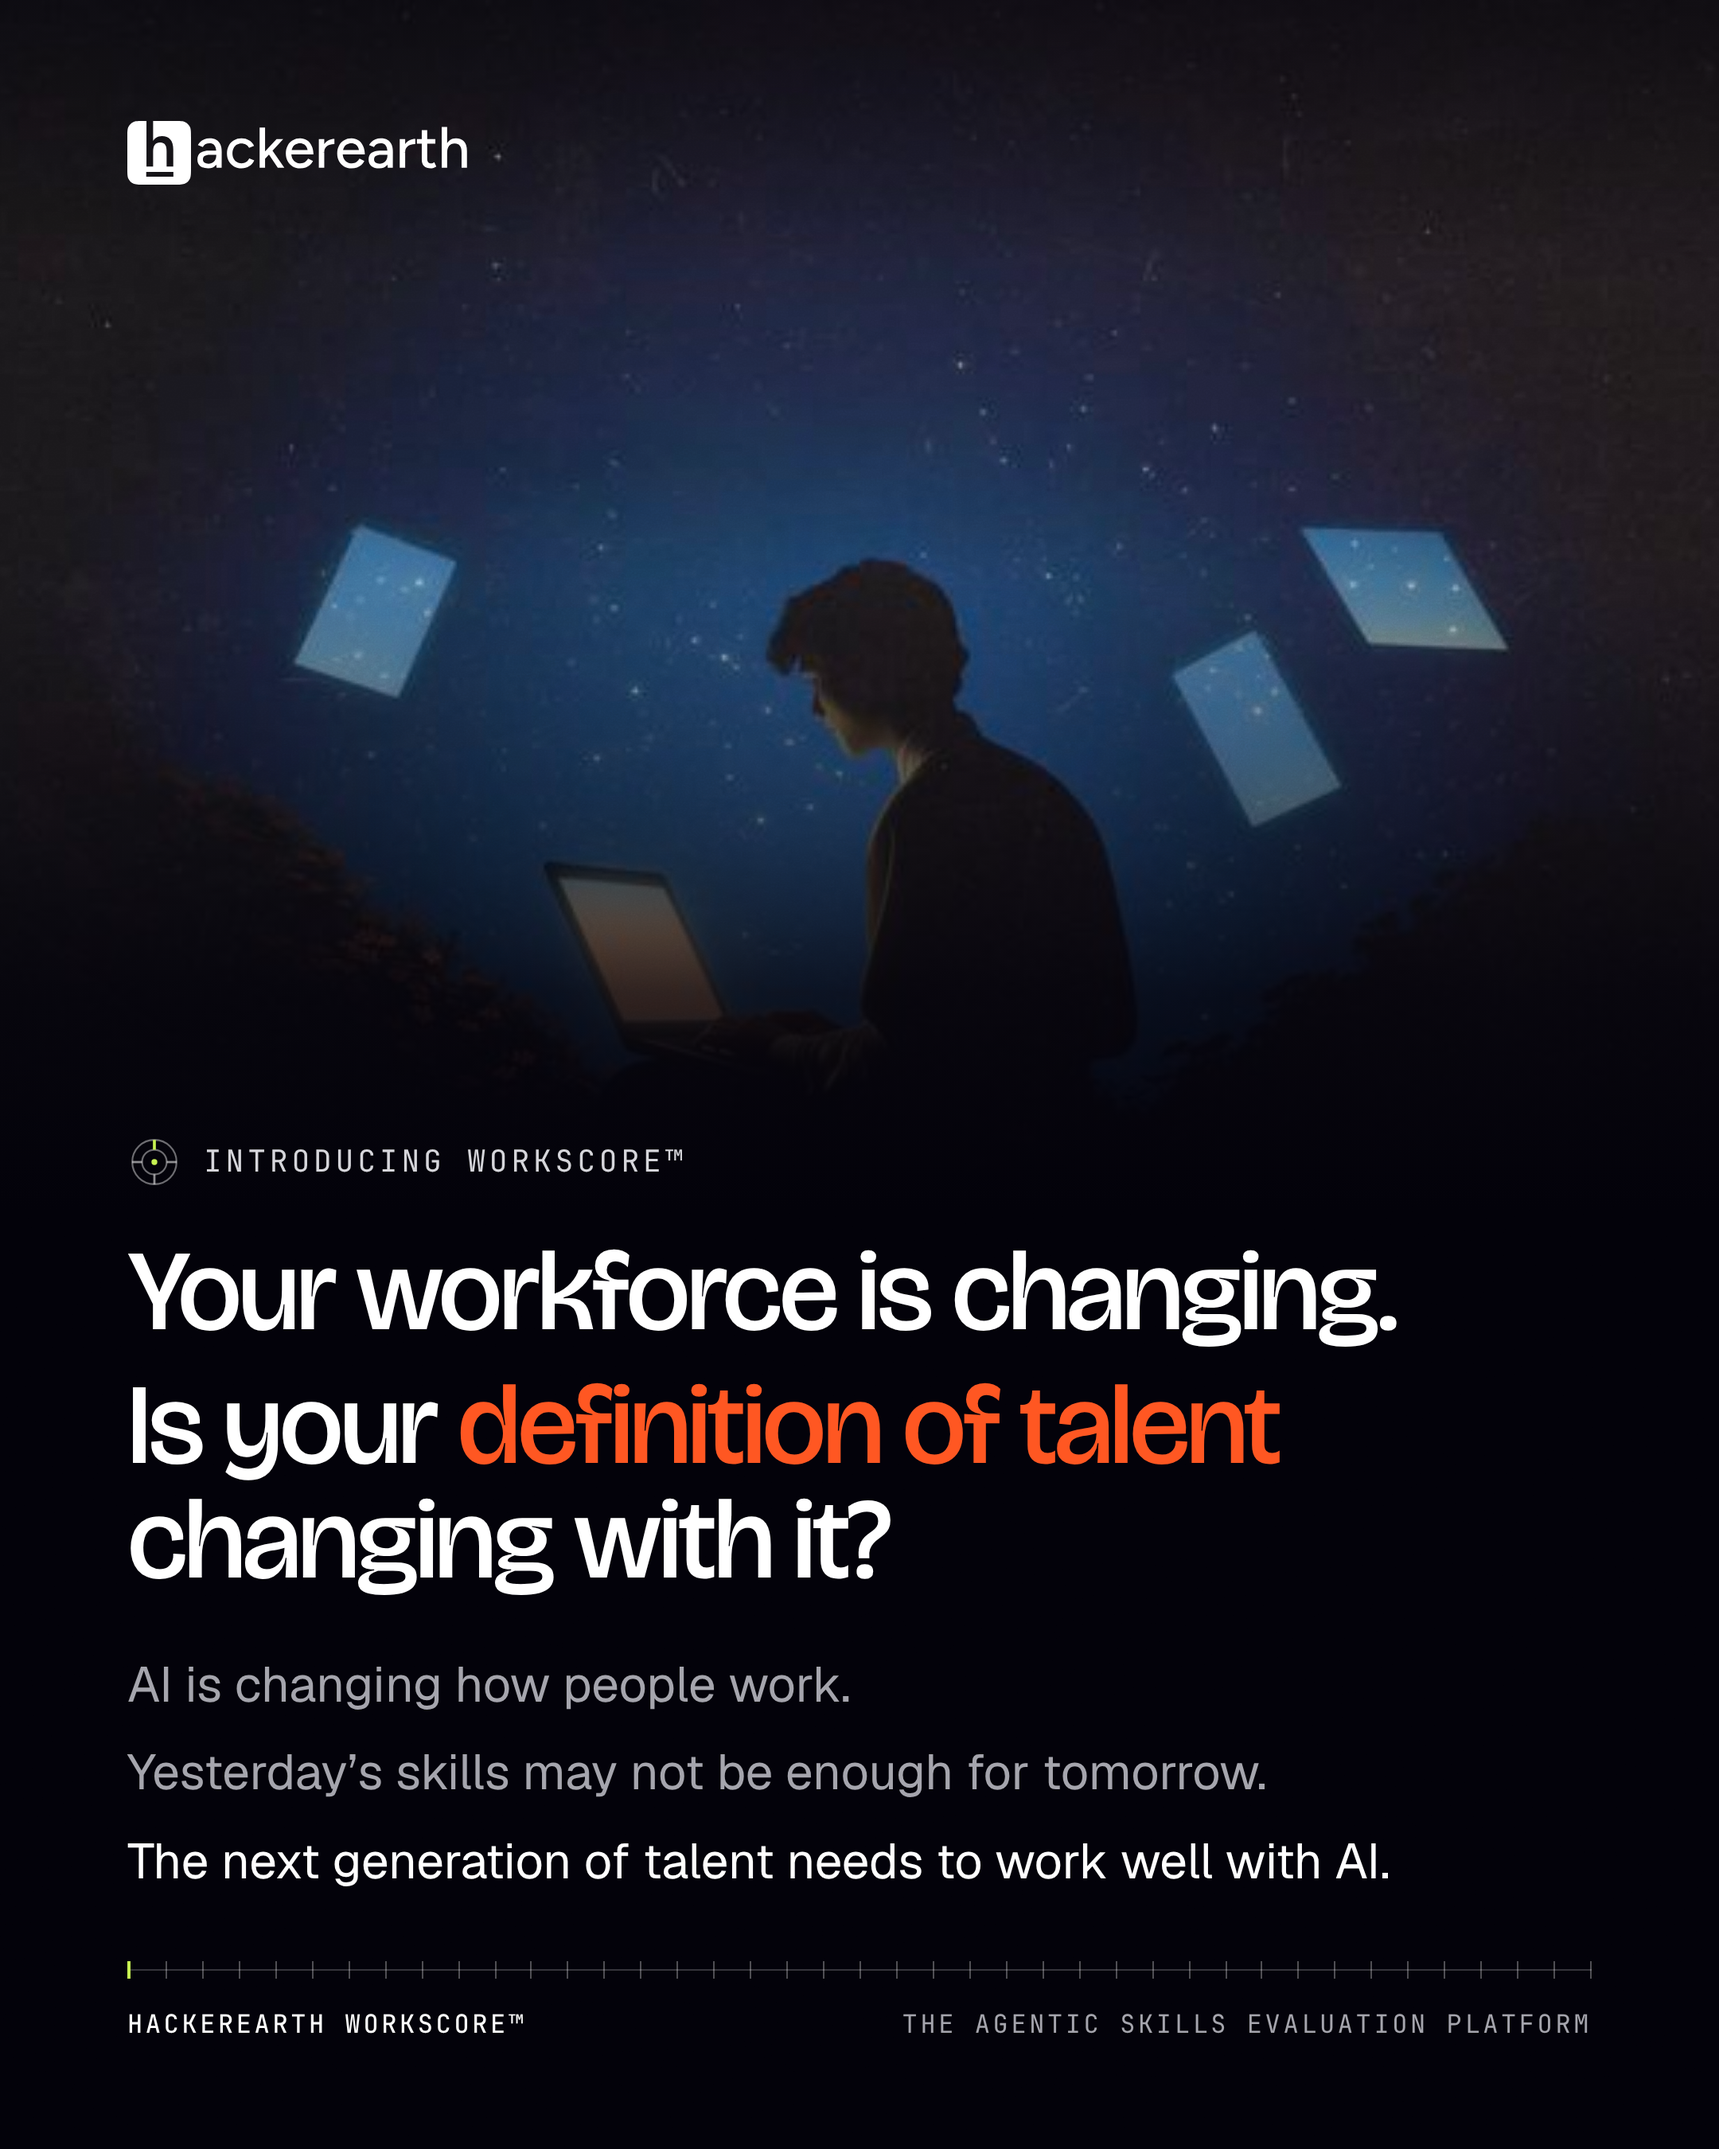
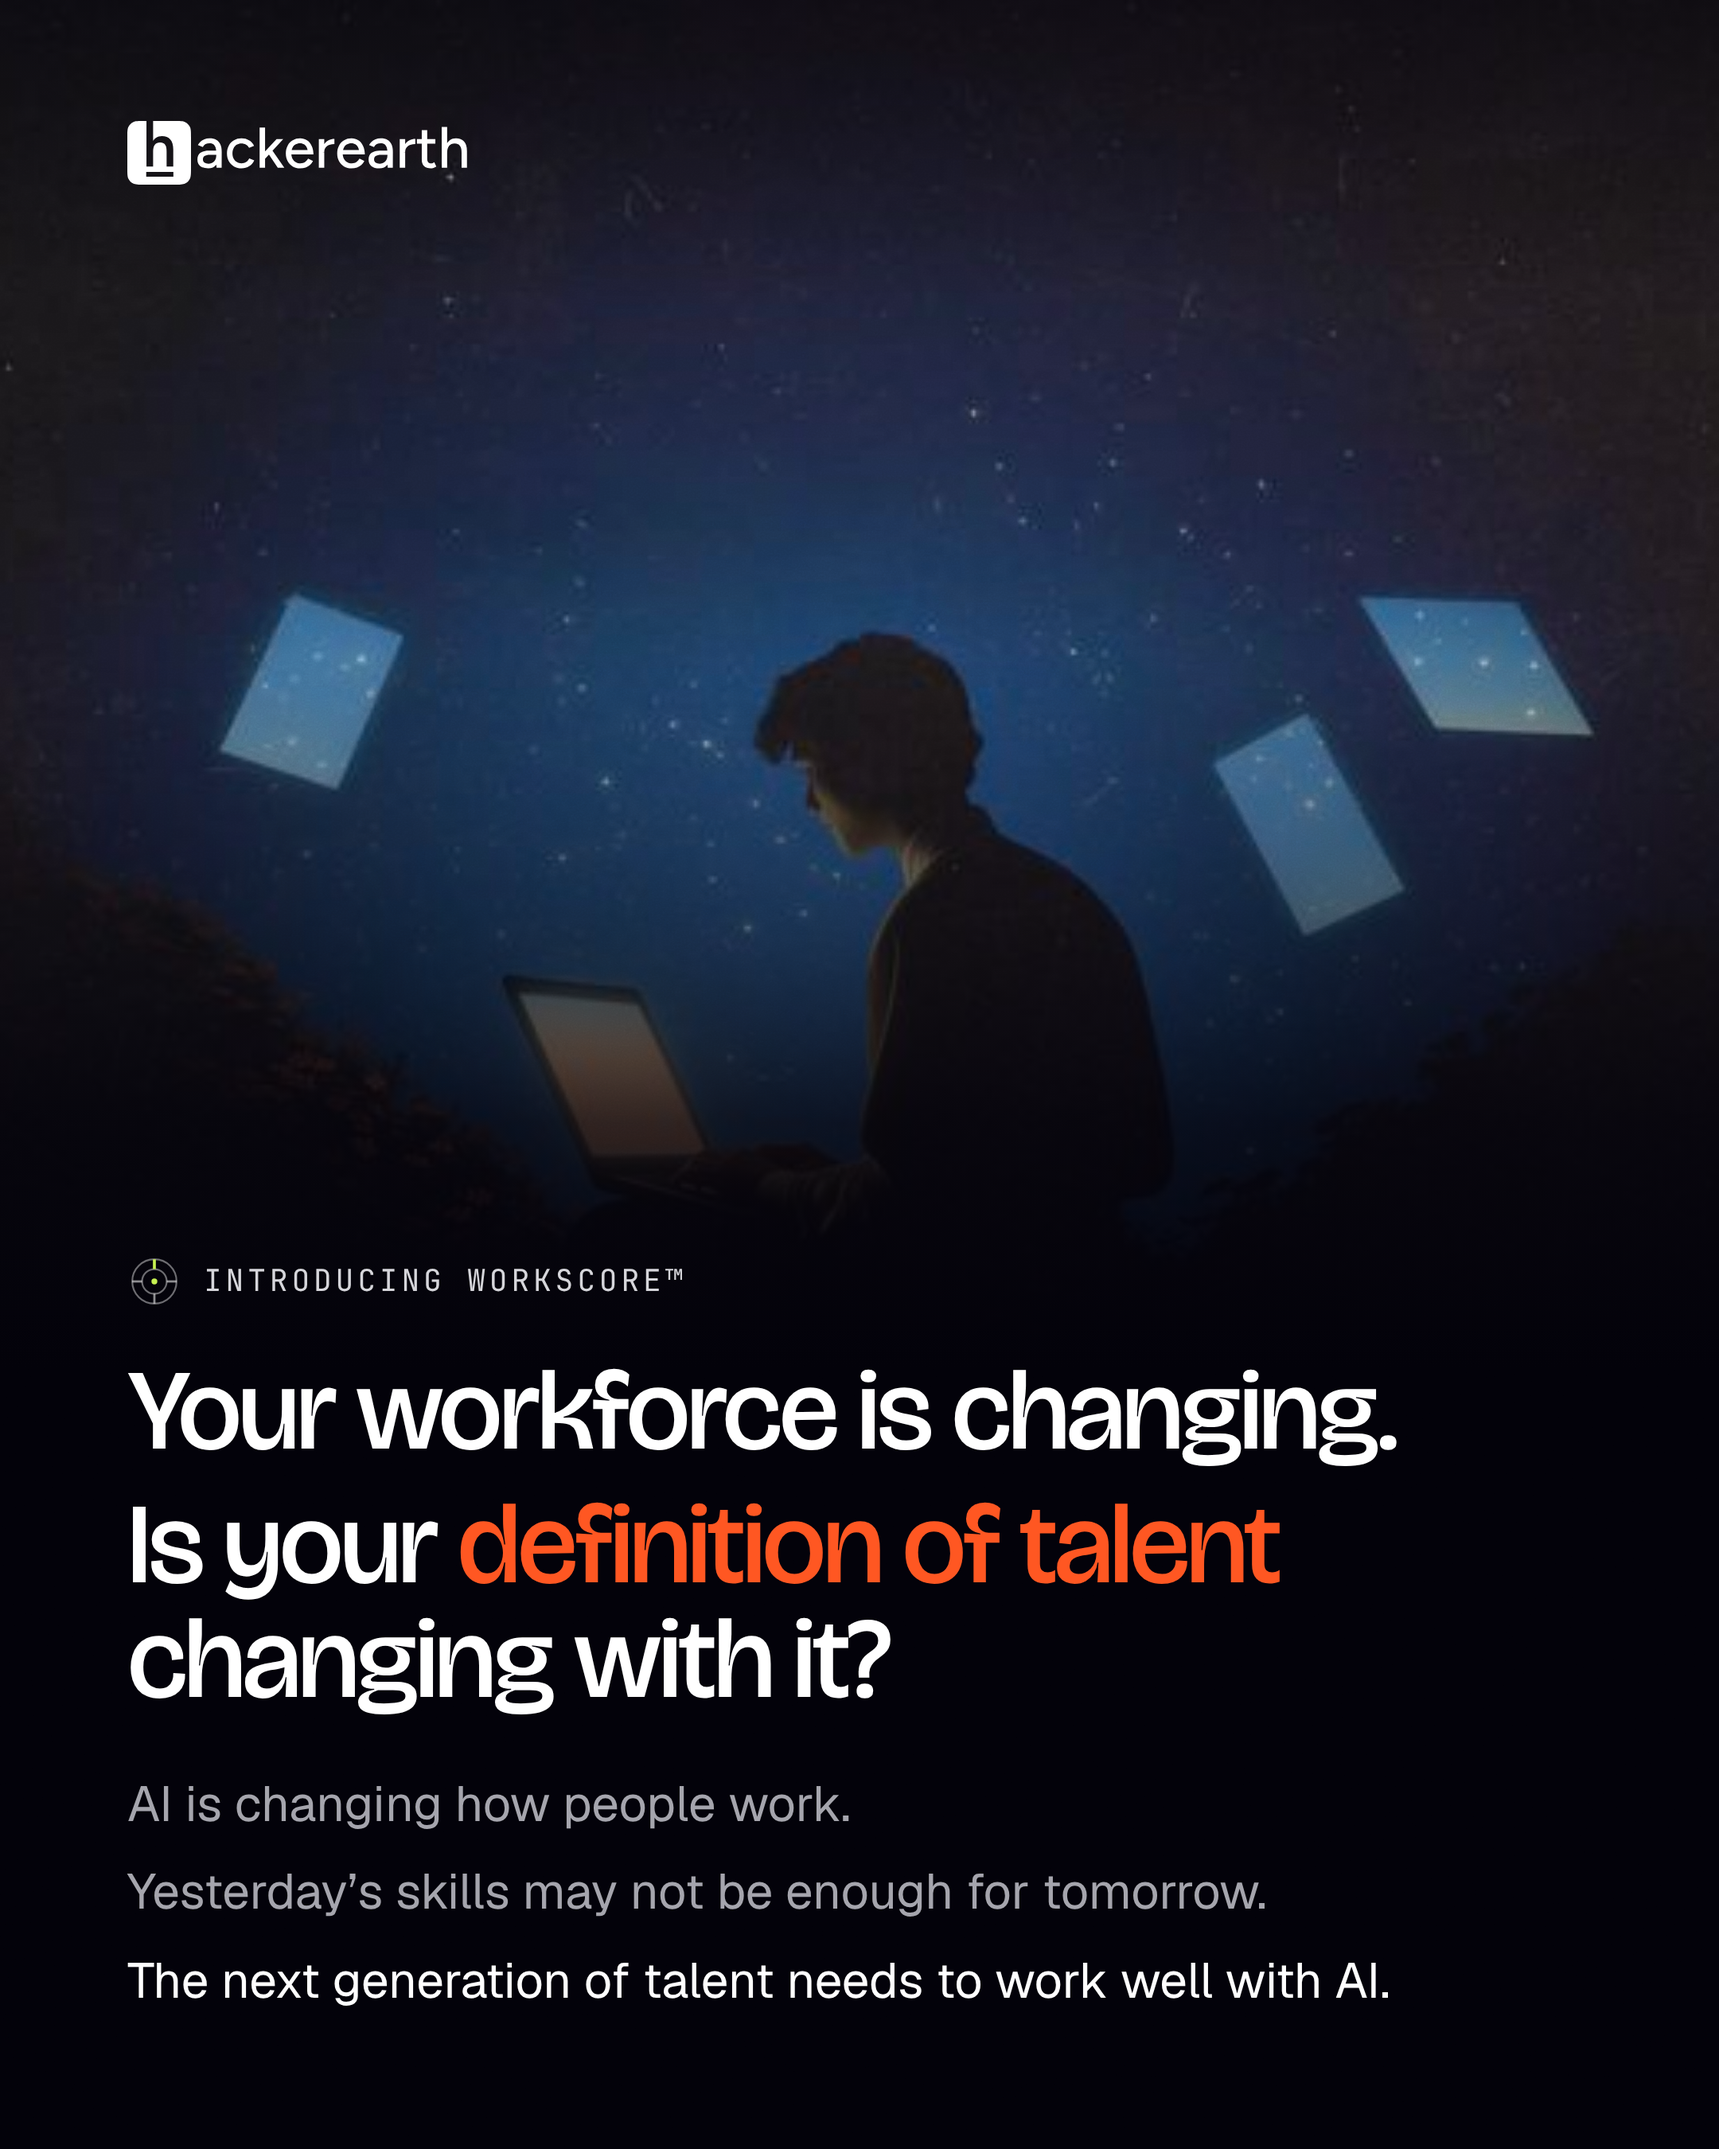
Remove footer from LinkedIn variations
Claude-Session: https://claude.ai/code/session_011WvSfaA7jnuHnBVRefteJj

diff --git a/workscore-linkedin-post/variations.html b/workscore-linkedin-post/variations.html
@@ -15,12 +15,12 @@ body { background: var(--bg-dark); color: #fff; font-family: var(--body); overfl
 .slide.on { display: block; }
 
 /* Image backdrop: fills the top, melts into brand black where the text sits */
-.art { position: absolute; top: 0; left: 0; right: 0; height: 760px; background-size: cover; background-position: 50% 50%; }
+.art { position: absolute; top: 0; left: 0; right: 0; height: 860px; background-size: cover; background-position: 50% 50%; }
 .art::after { content: ''; position: absolute; inset: 0; background:
   linear-gradient(to bottom, rgba(2,1,9,0.55) 0%, rgba(2,1,9,0) 22%, rgba(2,1,9,0) 48%, rgba(2,1,9,0.82) 82%, var(--bg-dark) 100%); }
 .grain { position: absolute; inset: 0; opacity: 0.16; mix-blend-mode: overlay; pointer-events: none; }
 
-.frame { position: absolute; inset: 0; padding: 76px 80px 68px; display: flex; flex-direction: column; }
+.frame { position: absolute; inset: 0; padding: 76px 80px 84px; display: flex; flex-direction: column; }
 .logo svg { height: 40px; width: auto; display: block; }
 .main { margin-top: auto; }
 .eyebrow { display: flex; align-items: center; gap: 14px; font-family: var(--mono); font-size: 19px; letter-spacing: 2.4px; text-transform: uppercase; color: #D6D6DB; margin-bottom: 28px; }
@@ -115,7 +115,6 @@ h1 em { font-style: normal; color: var(--cta); }
         <div class="main">
           <div class="eyebrow">${document.getElementById('compass').innerHTML}${s.dataset.eyebrow}</div>
           ${inner}
-          <div class="foot"><div class="marks">${'<i></i>'.repeat(41)}</div><span><b>HackerEarth WorkScore&trade;</b></span><span>The agentic skills evaluation platform</span></div>
         </div>
       </div>`;
     if (n === want) s.classList.add('on');
